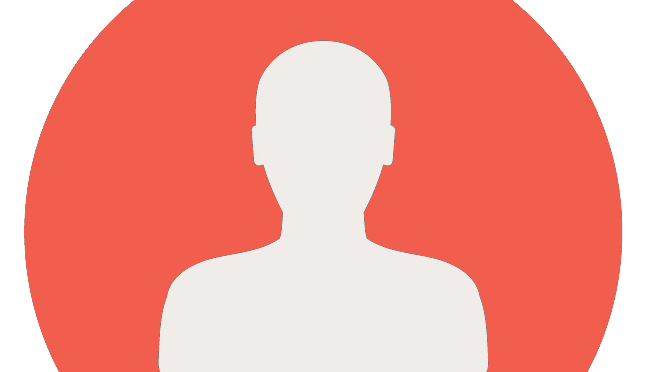
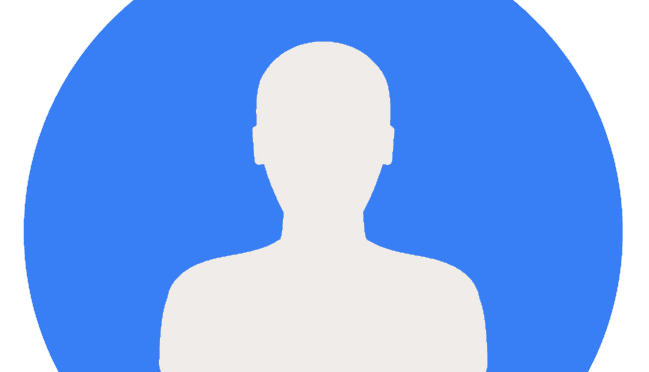
The blue update.

diff --git a/www/templates/players.html b/www/templates/players.html
@@ -21,8 +21,8 @@
             <tr class="doubles" style="display: none"><td colspan="3"><input class="nameInput" type="text" name="fname" placeholder="Player 4" id="name4"></td></tr>
         </table>
         <div class="button-bar" style="margin-bottom: 20px">
-            <a class="button button-assertive" ng-click="threeRounds()">3 Rounds</a>
-            <a class="button button-assertive" ng-click="fiveRounds()">5 Rounds</a>
+            <a class="button button-positive" ng-click="threeRounds()">3 Rounds</a>
+            <a class="button button-positive" ng-click="fiveRounds()">5 Rounds</a>
         </div>
         <table class="roundScores">
             <tr>
@@ -57,8 +57,8 @@
             <input type="datetime-local" id="dateInput">
         </label>
         <div style="text-align: center">
-            <button ng-click="submitScores()" class="button button-assertive" id="submitbutton">Submit</button>
-            <!-- <button ng-click="showAlert()" class="button button-assertive" id="submitbutton">Submit</button> -->
+            <button ng-click="submitScores()" class="button button-positive" id="submitbutton">Submit</button>
+            <!-- <button ng-click="showAlert()" class="button button-positive" id="submitbutton">Submit</button> -->
         </div>
     </ion-content>
 </ion-view>

diff --git a/www/lib/ionic/css/custom.css b/www/lib/ionic/css/custom.css
@@ -1,6 +1,6 @@
 
 .tabheader {
-	color: #ef473a;
+	color: #387EF5;
 	margin-top: 20px;
 }
 
@@ -27,7 +27,7 @@
 table.customMatch {
 	width: 100%;
 	font-size: 26px;
-	color: #ef473a;
+	color: #387EF5;
 	padding: 7px;
 	font-weight: bold;
 	margin-bottom: 20px;
@@ -42,7 +42,7 @@ table.customMatch > tbody > tr > td > input {
 	width: 100%;
 	height: 40px;
 	font-size: 20px;
-	color: #ef473a;
+	color: #387EF5;
 	font-weight: 900;
 	padding-left: 10px;
 	border: solid #888 1px;
@@ -63,7 +63,7 @@ table.roundScores > tbody > tr{
 table.roundScores > tbody > tr > td {
 	width: 20%;
 	font-size: 20px;
-	color: #ef473a;
+	color: #387EF5;
 	font-weight: 900;
 	text-align: center;
 	padding: auto;
@@ -77,7 +77,7 @@ table.roundScores > tbody > tr > td.middle {
 table.roundScores > tbody > tr > td > input {
 	text-align: center;
 	font-size: 20px;
-	color: #ef473a;
+	color: #387EF5;
 	font-weight: 900;
 	width: 100%;
 	height: 50px;
@@ -102,7 +102,7 @@ div.row > div.col {
 
 div.row > div.col > p {
 	font-weight: bold;
-	color: #ef473a;
+	color: #387EF5;
 	font-size: 16px;
 	margin-top: 5px;
 }

diff --git a/www/templates/badSquash.html b/www/templates/badSquash.html
@@ -1,6 +1,6 @@
 <ion-side-menus enable-menu-with-back-views="false">
     <ion-side-menu-content>
-        <ion-nav-bar class="bar-assertive">
+        <ion-nav-bar class="bar-positive">
             <ion-nav-back-button></ion-nav-back-button>
             <ion-nav-buttons side="left">
                 <button class="button button-icon button-clear ion-navicon" menu-toggle=""></button>
@@ -9,7 +9,7 @@
         <ion-nav-view name="side-menu21"></ion-nav-view>
     </ion-side-menu-content>
     <ion-side-menu side="left">
-        <ion-header-bar class="bar-assertive">
+        <ion-header-bar class="bar-positive">
             <div class="title">Squash Levels</div>
         </ion-header-bar>
         <ion-content padding="false" class="side-menu-left has-header" <="" ion-content="">

diff --git a/www/index.html b/www/index.html
@@ -48,7 +48,7 @@
   <body ng-app="app" animation="slide-left-right-ios7">
   <div>
     <div>
-        <ion-nav-bar class="bar-assertive">
+        <ion-nav-bar class="bar-positive">
             <ion-nav-back-button class="button-icon icon ion-ios-arrow-back">Back</ion-nav-back-button>
         </ion-nav-bar>
         <ion-nav-view></ion-nav-view>

diff --git a/www/templates/squashLevels.html b/www/templates/squashLevels.html
@@ -1532,7 +1532,7 @@
 			  	</label>
 
 			  	<div style="text-align: center">
-			  		<button ng-click="onTap()" class="button button-assertive searchbutton" id="loadbutton">Search</button>
+			  		<button ng-click="onTap()" class="button button-positive searchbutton" id="loadbutton">Search</button>
 			  	</div>
 			</div>
 		</div>

diff --git a/www/templates/filters.html b/www/templates/filters.html
@@ -20,7 +20,7 @@
           </ion-item>
         </ion-list> -->
 
-       <!-- <button on-tap="onTap()" class="button button-assertive" id="loadbutton">More</button> -->
+       <!-- <button on-tap="onTap()" class="button button-positive" id="loadbutton">More</button> -->
 
         
         <div id="levels"></div>
